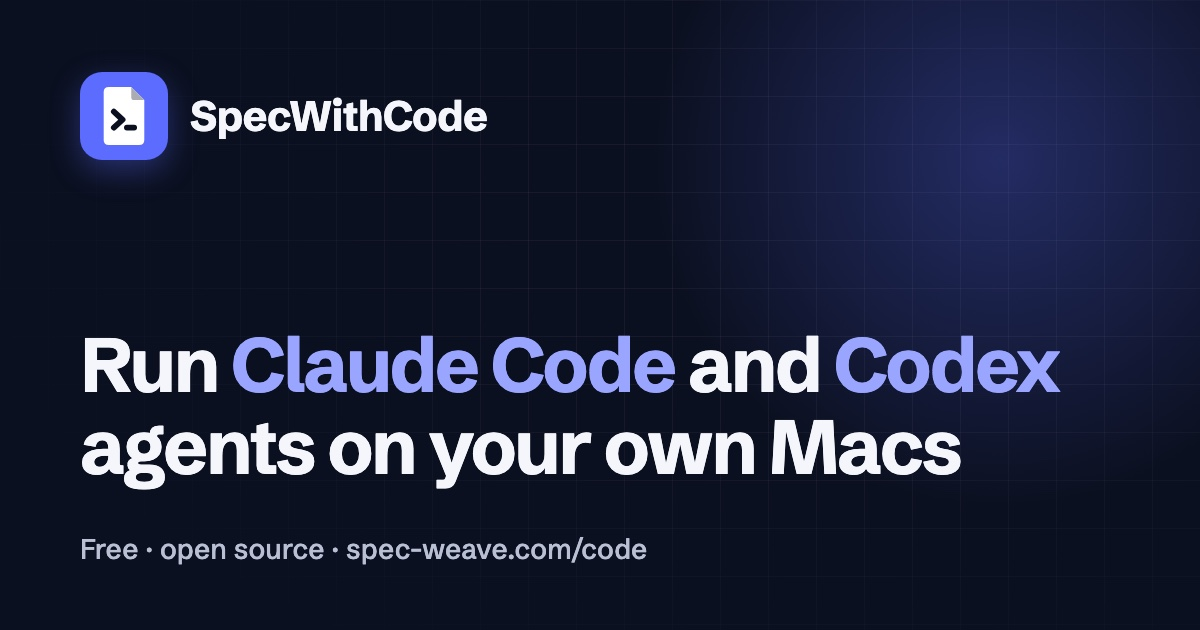
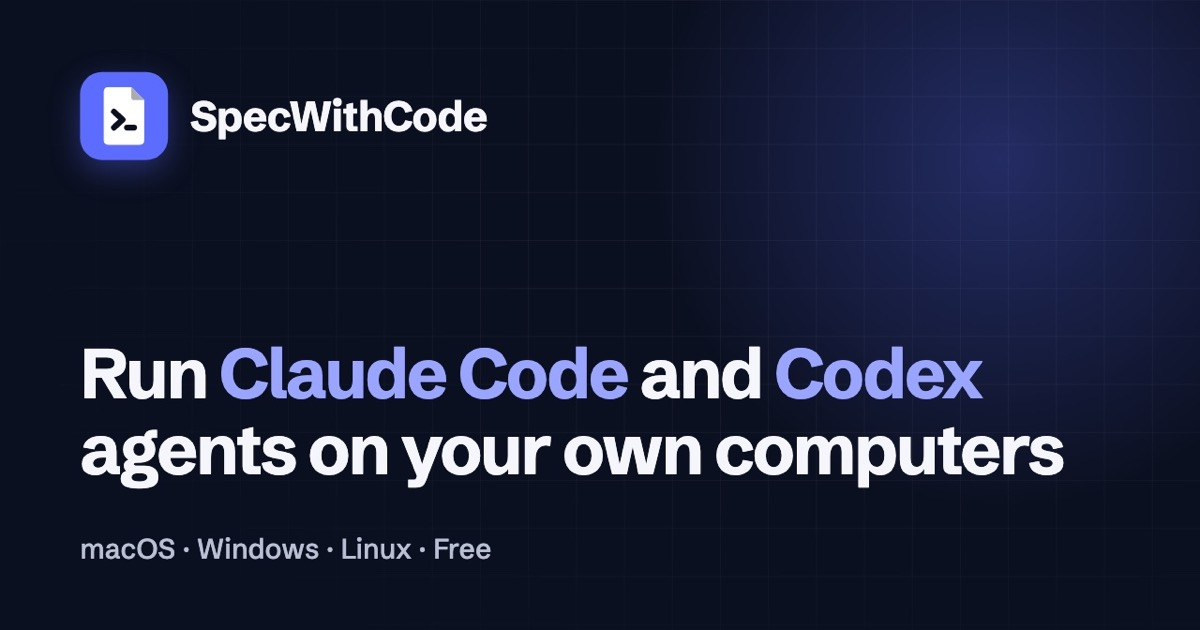
1099: correct cross-platform product positioning

diff --git a/docs-site/src/pages/code.tsx b/docs-site/src/pages/code.tsx
@@ -36,7 +36,7 @@ const LIMITS: {name: string; detail: React.ReactNode}[] = [
   {name: 'Credits before the fallback, if you want them', detail: <>Redeem a banked reset, spend Codex credits or use Claude API credits first. Each is off until you turn it on, and SpecWithCode never buys credits for you.</>},
   {name: 'The thread keeps its place', detail: <>Continuing hands the thread over with its context, in the same worktree. Tick Auto-continue when the limit resets, continue on another machine of the project, or undo a failover you did not want.</>},
   {name: 'Limits per account and machine', detail: <>Usage &gt; Limits names each account and the machine it is signed in on, with the share left in every session and weekly window.</>},
-  {name: 'A status page with history', detail: <>The health of the app, your machines and each provider, with each day’s worst status kept on your Mac for 90 days.</>},
+  {name: 'A status page with history', detail: <>The health of the app, your machines and each provider, with each day’s worst status kept on your computer for 90 days.</>},
 ];
 
 const MACHINE_STEPS: {title: string; body: React.ReactNode}[] = [
@@ -94,9 +94,9 @@ const FAQ_TEXT: {q: string; a: string}[] = [
 
 const SITE = 'https://spec-weave.com';
 const PAGE_URL = `${SITE}/code/`;
-const TITLE = 'SpecWithCode (Spec with Code): Claude Code & Codex workspace';
-const DESCRIPTION = 'SpecWithCode (Spec with Code) is a free AI coding agent workspace. Run Claude Code, Codex and Cursor on your own machines with your existing accounts.';
-const OG_IMAGE = `${SITE}/img/studio/og-specwithcode.jpg`;
+const TITLE = 'SpecWithCode (Spec with Code): agents on your own computers';
+const DESCRIPTION = 'SpecWithCode (Spec with Code): run Claude Code, Codex and Cursor on your own computers. Free workspace for macOS, Windows and Linux.';
+const OG_IMAGE = `${SITE}/img/studio/og-specwithcode.jpg?v=all-platforms-20261027`;
 /** The SpecWithCode explainer on the AI Power YouTube channel. */
 const EXPLAINER_URL = 'https://www.youtube.com/watch?v=eCLJSZ8wo9w';
 const tour = getTutorial('specwithcode-tour');
@@ -215,7 +215,7 @@ export default function Code() {
       <meta property="og:image" content={OG_IMAGE} />
       <meta property="og:image:width" content="1200" />
       <meta property="og:image:height" content="630" />
-      <meta property="og:image:alt" content="SpecWithCode: run Claude Code and Codex agents on your own Macs. Free, source available." />
+      <meta property="og:image:alt" content="SpecWithCode: run Claude Code and Codex agents on your own computers. macOS, Windows and Linux. Free, source available." />
       <meta name="twitter:image" content={OG_IMAGE} />
       <script type="application/ld+json">{JSON.stringify(SPECWITHCODE_LD)}</script>
     </Head>
@@ -227,14 +227,14 @@ export default function Code() {
             <span className={styles.productName}>SpecWithCode</span>
             <span className={styles.productNote}>Free, source available</span>
           </p>
-          <h1>SpecWithCode: run Claude Code, Codex and Cursor agents on your own machines</h1>
-          <p className={styles.lead}>SpecWithCode (pronounced “Spec with Code”) is a free AI coding agent workspace on your own machines.</p>
+          <h1>SpecWithCode: run Claude Code, Codex and Cursor agents on your own computers</h1>
+          <p className={styles.lead}>SpecWithCode (pronounced “Spec with Code”) is a free AI coding agent workspace on your own computers.</p>
           <p className={styles.lead}>One coordinator per project starts worker threads in {providerSummary(6)}, each on its own branch or worktree.</p>
           <div className={styles.actions}>
-            <a className="wv-btn wv-btn--primary wv-btn--lg" href={release.dmgUrl} data-track="download_click" data-placement="hero"><Download {...btnIcon} />Download for Mac</a>
+            <Link className="wv-btn wv-btn--primary wv-btn--lg" to="/code/download/" data-track="download_click" data-placement="hero"><Download {...btnIcon} />Download for macOS, Windows or Linux</Link>
             <a className="wv-btn wv-btn--secondary wv-btn--lg" href="#workflow">See how it works</a>
           </div>
-          <p className={styles.requirements}>Version {release.version}, {release.size}. Apple silicon, macOS 13 or later, early access. Signed with Developer ID and notarized by Apple. Linux machines can join as workers. <Link className="wv-link" to="/docs/reference/changelog#specwithcode-releases">What is new in {release.version}</Link> · <Link className="wv-link" to="/code/download/">Download SpecWithCode for Mac, Windows or Linux</Link></p>
+          <p className={styles.requirements}>Early access for macOS 13 or later on Apple silicon, Windows 10 and 11 (x64), and Linux (x64). Mac releases are signed and notarized; Windows and Linux installers are unsigned. <Link className="wv-link" to="/code/download/">Downloads, versions and installation steps</Link></p>
           <div className={clsx('wv-note', styles.qualification)}>
             <Info {...icon} />
             <p><strong>Cloud models still receive prompts and relevant context through your chosen provider.</strong> Local execution does not mean offline AI.</p>
@@ -278,7 +278,7 @@ export default function Code() {
       <section className={clsx(styles.shell, styles.section)} id="machines" aria-labelledby="machines-title">
         <div className={styles.sectionHead}>
           <h2 id="machines-title">Add the machines you trust</h2>
-          <p>Start on one Mac. When you want more capacity, add another Mac or a Linux machine to your private Tailscale network and let coordinators start workers there. Each machine reaches the others by its own Tailscale name, whatever network it is on.</p>
+          <p>Start on one computer. When you want more capacity, add a supported Mac or Linux worker to your private Tailscale network and let coordinators start workers there. Each machine reaches the others by its own Tailscale name, whatever network it is on.</p>
         </div>
 
         <ol className={clsx('wv-thread', 'wv-thread--across', styles.route)} aria-label="Add a machine in four steps">
@@ -325,8 +325,8 @@ export default function Code() {
 
       <section className={clsx(styles.shell, styles.section, styles.split)} aria-labelledby="reach-title">
         <div className={styles.sectionHead}>
-          <h2 id="reach-title">Let agents use your Mac and your browser</h2>
-          <p>Some work happens outside a terminal. Give agents the desktop and the browser when a task needs them, on the machines where you allow it.</p>
+          <h2 id="reach-title">Let agents use your browser and, on macOS, your desktop</h2>
+          <p>Some work happens outside a terminal. Give agents browser access when a task needs it. Native desktop control is macOS only and requires permission on that Mac.</p>
         </div>
         <Evidence items={REACH} />
       </section>

diff --git a/docs-site/src/pages/code/download.tsx b/docs-site/src/pages/code/download.tsx
@@ -21,7 +21,7 @@ const SITE = 'https://spec-weave.com';
 const PAGE_URL = `${SITE}/code/download/`;
 const TITLE = 'Download SpecWithCode for Mac, Windows and Linux (free)';
 const DESCRIPTION = 'Download SpecWithCode (Spec with Code), the free AI coding agent workspace, for Apple silicon Macs, Windows 10 and 11, and Linux.';
-const OG_IMAGE = `${SITE}/img/studio/og-specwithcode.jpg`;
+const OG_IMAGE = `${SITE}/img/studio/og-specwithcode.jpg?v=all-platforms-20261027`;
 const SHA_URL = `${release.repoUrl}/releases/download/v${release.version}/SHA256SUMS`;
 const CHROME_URL = 'https://chromewebstore.google.com/detail/specwithcode-browser/okoinngelinfjfkmkcnbgndapeiofgbb';
 
@@ -118,7 +118,7 @@ export default function CodeDownload() {
       <meta property="og:image" content={OG_IMAGE} />
       <meta property="og:image:width" content="1200" />
       <meta property="og:image:height" content="630" />
-      <meta property="og:image:alt" content="SpecWithCode: run Claude Code and Codex agents on your own Macs. Free, source available." />
+      <meta property="og:image:alt" content="SpecWithCode: run Claude Code and Codex agents on your own computers. macOS, Windows and Linux. Free, source available." />
       <meta name="twitter:image" content={OG_IMAGE} />
       <script type="application/ld+json">{JSON.stringify(DOWNLOAD_LD)}</script>
     </Head>
@@ -207,10 +207,11 @@ export default function CodeDownload() {
       </section>
 
       <section className={clsx(styles.shell, styles.final)} aria-labelledby="download-final-title">
-        <h2 id="download-final-title">Get SpecWithCode for Mac</h2>
-        <p>Free, source available, no account. Version {release.version} for Apple silicon Macs on macOS 13 or later.</p>
+        <h2 id="download-final-title">Get SpecWithCode for your computer</h2>
+        <p>Free, source available, no account. Choose macOS on Apple silicon, Windows 10 and 11 (x64), or Linux (x64).</p>
         <div className={styles.actions}>
-          <a className="wv-btn wv-btn--primary wv-btn--lg" href={release.dmgUrl} data-track="download_click" data-placement="download-page-footer"><Download {...btnIcon} />Download SpecWithCode</a>
+          <a className="wv-btn wv-btn--primary wv-btn--lg" href={release.dmgUrl} data-track="download_click" data-placement="download-page-footer"><Download {...btnIcon} />Download for Mac</a>
+          <a className="wv-btn wv-btn--secondary" href="#windows-linux-title">Windows and Linux downloads</a>
           <a className={clsx('wv-link', styles.finalLink)} href={release.repoUrl}>View source on GitHub</a>
         </div>
       </section>

diff --git a/docs-site/src/components/ecosystem/StudioSections.tsx b/docs-site/src/components/ecosystem/StudioSections.tsx
@@ -110,11 +110,11 @@ export function StudioFaq() {
     </article>
     <article>
       <h3>Is it a cloud service?</h3>
-      <p>No. SpecWithCode is a local app on each machine: a desktop app for Apple silicon Macs on macOS 13 or later, also usable from a browser. A Linux machine (x64 or arm64) can join as a worker; Windows and Intel Macs are not built yet. Telemetry and the hosted relay are off by default. By default the desktop app checks GitHub every hour and installs updates for itself and the service; you can turn that off in Settings. Model calls still go to the providers you choose.</p>
+      <p>No. SpecWithCode is a local app on each machine: a desktop app for Apple silicon Macs on macOS 13 or later, also usable from a browser. A Linux machine (x64 or arm64) can join as a worker; Windows 10 and 11 (x64) and Linux (x64) desktop installers are also available. Intel Mac desktop builds are not published. Telemetry and the hosted relay are off by default. By default the desktop app checks GitHub every hour and installs updates for itself and the service; you can turn that off in Settings. Model calls still go to the providers you choose.</p>
     </article>
     <article>
       <h3>Can I use it today?</h3>
-      <p>Yes. SpecWithCode is built for teams of 2–10 people and is free, with no markup on your subscriptions, no token resale and no seat fee to run agents on your own machines. What is free today stays free; teams pay only for hosting and support (<a href="/pricing">pricing</a>). It is in early access: <a href={release.dmgUrl}>Download version {release.version} for Apple silicon Macs</a> ({release.size}), or see <a href={release.releasesUrl}>all releases on GitHub</a>. The SpecWeave CLI it builds on is open source and available with <code>npm install -g specweave</code>.</p>
+      <p>Yes. SpecWithCode is built for teams of 2–10 people and is free, with no markup on your subscriptions, no token resale and no seat fee to run agents on your own machines. What is free today stays free; teams pay only for hosting and support (<a href="/pricing">pricing</a>). It is in early access: <a href="/code/download/">Download for macOS, Windows or Linux</a>, or see <a href={release.releasesUrl}>all releases on GitHub</a>. The SpecWeave CLI it builds on is open source and available with <code>npm install -g specweave</code>.</p>
     </article>
   </div>;
 }

diff --git a/docs-site/marketing/og-specwithcode.html b/docs-site/marketing/og-specwithcode.html
@@ -12,7 +12,7 @@
   .mark{width:88px;height:88px;border-radius:22px;background:#5B6CFF;display:flex;align-items:center;justify-content:center;box-shadow:0 10px 30px rgba(91,108,255,.35)}
   .mark svg{width:58px;height:58px}
   .name{font-size:42px;font-weight:700;letter-spacing:-.02em}
-  h1{position:relative;margin:auto 0 0;font-size:76px;line-height:82px;font-weight:700;letter-spacing:-.035em;max-width:1000px}
+  h1{position:relative;margin:auto 0 0;font-size:70px;line-height:76px;font-weight:700;letter-spacing:-.035em;max-width:1000px}
   h1 span{color:#9AA5FF}
   .foot{position:relative;margin-top:44px;display:flex;align-items:center;justify-content:space-between;font-size:28px;font-weight:500;color:#B9C0D4}
   .agents{font-family:'JetBrains Mono',ui-monospace,monospace;font-size:22px;color:#8790AB}
@@ -23,6 +23,6 @@
     <div class="mark"><svg viewBox="10 10 80 80" xmlns="http://www.w3.org/2000/svg"><path fill="#FFFFFF" d="M29 10H60L78 28V83Q78 90 71 90H29Q22 90 22 83V17Q22 10 29 10Z"/><path fill="#AAACB2" d="M60 10V24Q60 28 64 28H78Z"/><path fill="#0B1020" d="M38.703 41.051L50.703 52.051A4 4 0 0 1 50.703 57.949L38.703 68.949A4 4 0 0 1 33.297 63.051L42.080 55L33.297 46.949A4 4 0 0 1 38.703 41.051ZM54 62H64A4 4 0 0 1 64 70H54A4 4 0 0 1 54 62Z"/></svg></div>
     <div class="name">SpecWithCode</div>
   </div>
-  <h1>Run <span>Claude Code</span> and <span>Codex</span> agents on your own Macs</h1>
-  <div class="foot"><div>Free · open source · spec-weave.com/code</div></div>
+  <h1>Run <span>Claude Code</span> and <span>Codex</span> agents on your own computers</h1>
+  <div class="foot"><div>macOS · Windows · Linux · Free</div></div>
 </div></body></html>

diff --git a/docs-site/src/components/ecosystem/WhySpecWithCode.tsx b/docs-site/src/components/ecosystem/WhySpecWithCode.tsx
@@ -16,7 +16,7 @@ const ROWS: {label: string; cells: Cell[]}[] = [
     <>The vendor’s agent in the vendor’s environment <Src href="https://code.claude.com/docs/en/claude-code-on-the-web" /></>,
   ]},
   {label: 'Where your code runs', cells: [
-    'Your Macs and Linux machines',
+    'Your own computers',
     <>Your machine <Src href="https://opencode.ai/docs/server/" /></>,
     <>A vendor-hosted container or VM that clones your repo <Src href="https://learn.chatgpt.com/docs/environments/cloud-environment" /></>,
   ]},

diff --git a/docs-site/docs/guides/specwithcode-vs-opencode-t3-code.md b/docs-site/docs/guides/specwithcode-vs-opencode-t3-code.md
@@ -7,7 +7,7 @@ keywords: [opencode alternative, t3 code alternative, codex cloud alternative, c
 
 # SpecWithCode vs OpenCode, T3 Code and cloud agents
 
-SpecWithCode is a free Mac app with source available for inspection that runs Claude Code, Codex, Cursor and other coding agents on your own machines, signed in with the plans you already pay for. A coordinator splits work across worker threads, and the app tracks each subscription's limits where the provider reports them.
+SpecWithCode is a free desktop app for macOS, Windows and Linux with source available for inspection that runs Claude Code, Codex, Cursor and other coding agents on your own machines, signed in with the plans you already pay for. A coordinator splits work across worker threads, and the app tracks each subscription's limits where the provider reports them.
 
 The facts about other products below come from their own sites, docs and GitHub repositories, checked on 16 October 2026. They change quickly, so follow the links for the current state. SpecWithCode is our product, so read this page with that in mind.
 
@@ -16,10 +16,10 @@ The facts about other products below come from their own sites, docs and GitHub 
 | | SpecWithCode | OpenCode | T3 Code | Cloud agents |
 |---|---|---|---|---|
 | **What runs the agent** | Each vendor's own agent: the Claude Code, Codex, Grok, OpenCode, Muse Code, Antigravity and Pi CLIs, Cursor through its official SDK ([Cursor SDK](https://cursor.com/docs/api/sdk/typescript)), plus GitHub Copilot CLI and Gemini CLI through the ACP registry | Its own agent loop with build and plan agents, across 75+ model providers ([providers](https://opencode.ai/docs/providers/), [README](https://github.com/anomalyco/opencode)) | Vendor CLIs: Claude Code, Codex, Cursor, Grok Build, OpenCode, Google Antigravity ([README](https://github.com/pingdotgg/t3code)) | The vendor's agent in the vendor's environment |
-| **Where your code runs** | Your Macs | Your machine | Your machine | A vendor-hosted container or VM that clones your repo (sources below) |
+| **Where your code runs** | Your own computers | Your machine | Your machine | A vendor-hosted container or VM that clones your repo (sources below) |
 | **Claude Pro or Max plan** | Through Claude Code's own sign-in on each machine | Its docs say Anthropic prohibits this and the plugin has not been bundled since v1.3.0 ([providers](https://opencode.ai/docs/providers/)) | Through Claude Code: "Works with your subscriptions" ([README](https://github.com/pingdotgg/t3code)) | Billed through each vendor's own plan |
-| **Other machines** | Pair Macs over your network, SSH or Tailscale; move a project or continue a thread on another machine | `opencode serve` and `opencode web` listen on 127.0.0.1 by default and can bind a network address ([server](https://opencode.ai/docs/server/), [web](https://opencode.ai/docs/web/)) | Network, Tailscale, SSH or the T3 Connect relay ([remote access](https://github.com/pingdotgg/t3code/blob/main/docs/user/remote-access.md)) | Runs in the vendor's cloud |
-| **Apps** | macOS on Apple silicon (Electron), signed and notarized | Terminal, desktop for macOS, Windows and Linux, IDE extension ([download](https://opencode.ai/download)) | Desktop (Electron) for macOS, Windows and Linux, web, iOS, Android and a CLI ([README](https://github.com/pingdotgg/t3code)) | Web, IDE and GitHub |
+| **Other machines** | Pair supported machines over your network, SSH or Tailscale; move a project or continue a thread on another machine | `opencode serve` and `opencode web` listen on 127.0.0.1 by default and can bind a network address ([server](https://opencode.ai/docs/server/), [web](https://opencode.ai/docs/web/)) | Network, Tailscale, SSH or the T3 Connect relay ([remote access](https://github.com/pingdotgg/t3code/blob/main/docs/user/remote-access.md)) | Runs in the vendor's cloud |
+| **Apps** | macOS on Apple silicon, Windows 10/11 (x64), Linux (x64); Mac signed/notarized, Windows/Linux unsigned | Terminal, desktop for macOS, Windows and Linux, IDE extension ([download](https://opencode.ai/download)) | Desktop (Electron) for macOS, Windows and Linux, web, iOS, Android and a CLI ([README](https://github.com/pingdotgg/t3code)) | Web, IDE and GitHub |
 | **Price and license** | Free; source available, no new project-wide license grant | Open source (MIT) ([license](https://github.com/anomalyco/opencode/blob/dev/LICENSE)) | Open source (MIT) ([license](https://github.com/pingdotgg/t3code/blob/main/LICENSE)) | Included in or billed by each vendor's plan |
 
 Cloud agents here means:
@@ -66,6 +66,6 @@ when work should keep running with your laptop closed and your repository alread
 
 ## Pick SpecWithCode
 
-when your team of 2–10 people wants one coordinator to split work across several agents on your own Macs, watch every subscription's limits in one place, let agents use your Chrome through the SpecWithCode Browser extension, and keep your code off anyone else's servers.
+when your team of 2–10 people wants one coordinator to split work across several agents on your own computers, watch every subscription's limits in one place, let agents use your Chrome through the SpecWithCode Browser extension, and keep your code off anyone else's servers.
 
 [Download SpecWithCode](/code/) or compare it with [BridgeMind](/docs/compare/specwithcode-vs-bridgemind).

diff --git a/docs-site/docs/studio/status-page.md b/docs-site/docs/studio/status-page.md
@@ -1,7 +1,7 @@
 ---
-title: "The SpecWithCode Status page: providers, GitHub, Tailscale and your Mac in one place"
+title: "The SpecWithCode Status page: providers, GitHub, Tailscale and your computers in one place"
 sidebar_label: Status page
-description: "Status in SpecWithCode combines the public status pages of Claude, OpenAI, GitHub, Google, xAI and Tailscale with what your own Mac saw, keeps 90 days of history on the Mac, and names what each service affects."
+description: "Status in SpecWithCode combines the public status pages of Claude, OpenAI, GitHub, Google, xAI and Tailscale with what your own computer saw, keeps 90 days of history on your computer, and names what each service affects."
 ---
 
 # Status page
@@ -12,15 +12,15 @@ When a thread fails, the first question is whose fault it is: the provider, GitH
 
 | Service | Built from | What depends on it |
 |---|---|---|
-| Local service | This Mac: the local database and the MCP endpoint agents use | Every thread and window, scheduled tasks, MCP tools for agents |
-| MCP and coordinators | This Mac: each project coordinator's last turn | Project coordinators, delegated tasks, scheduled runs |
-| Claude | status.claude.com and what this Mac saw | Claude threads, coordinators and usage limits |
-| Codex | status.openai.com and what this Mac saw | Codex threads, ChatGPT sign-in, Codex usage limits |
+| Local service | This machine: the local database and the MCP endpoint agents use | Every thread and window, scheduled tasks, MCP tools for agents |
+| MCP and coordinators | This machine: each project coordinator's last turn | Project coordinators, delegated tasks, scheduled runs |
+| Claude | status.claude.com and what this machine saw | Claude threads, coordinators and usage limits |
+| Codex | status.openai.com and what this machine saw | Codex threads, ChatGPT sign-in, Codex usage limits |
 | GitHub Copilot | githubstatus.com | Copilot threads and model access |
 | Gemini | status.cloud.google.com | Gemini and Antigravity threads |
 | Grok | status.x.ai | Grok threads |
 | GitHub | githubstatus.com: Git operations, API requests, pull requests, Actions | Code Review and pull requests, clone and publish, app updates |
-| Tailscale | This Mac and status.tailscale.com | Remote machines, phone and browser access over Tailscale |
+| Tailscale | This machine and status.tailscale.com | Remote machines, phone and browser access over Tailscale |
 | Updates | The SpecWithCode release feed and the GitHub API | App updates, service updates on paired machines |
 
 A provider's level combines its public status page with what this app saw in the last hour: sign-in, usage limits and failed turns. So trouble that only your account hits still shows up, even when the provider's page says everything is fine.
@@ -29,10 +29,10 @@ A provider's level combines its public status page with what this app saw in the
 
 Each service shows one of **Operational**, **Needs attention**, **Partial outage**, **Major outage**, **Maintenance** or **Unknown**, always as a word. Under it, 90 bars show the last 90 days, one bar per day in the worst status seen that day; a single failed check among many shows as Needs attention. Hover a bar, or move through the bars with the arrow keys, to read that day.
 
-Incidents list what is open now and in the last seven days, each marked **Provider status page** or **Seen by this Mac**, with what it affects.
+Incidents list what is open now and in the last seven days, each marked **Provider status page** or **Seen by this machine**, with what it affects.
 
 ## How fresh it is
 
-The app checks shortly after it starts and then every five minutes. **Check status now** runs a check at once. History is kept on the Mac for 90 days and never leaves it.
+The app checks shortly after it starts and then every five minutes. **Check status now** runs a check at once. History is kept on your computer for 90 days and never leaves it.
 
 Usage limits for each account are on a separate page: **Usage > Limits**. See [Memory and usage](/docs/studio/memory-and-usage).

diff --git a/docs-site/docs/studio/linux-worker.md b/docs-site/docs/studio/linux-worker.md
@@ -6,7 +6,7 @@ description: "Add a Linux machine on x64 or arm64, such as a Hetzner, DigitalOce
 
 # Linux worker
 
-A Linux machine you control can run workers for the coordinators on your Mac: a small VPS, a cloud VM or a box at home. It runs the same SpecWithCode server as a Mac worker; only the install differs. You rent the machine and sign its provider CLIs in with your own accounts. SpecWithCode does not start sessions on anyone else's cloud.
+A Linux machine you control can run workers for the coordinators on your main computer: a small VPS, a cloud VM or a box at home. It runs the same SpecWithCode server as a Mac worker; only the install differs. You rent the machine and sign its provider CLIs in with your own accounts. SpecWithCode does not start sessions on anyone else's cloud.
 
 Every release ships `studio-<version>-linux-x64-….tar.gz` and `studio-<version>-linux-arm64-….tar.gz` with a `SHA256SUMS` file ([latest release assets](https://github.com/anton-abyzov/specwithcode/releases/latest)).
 
@@ -14,7 +14,7 @@ Every release ships `studio-<version>-linux-x64-….tar.gz` and `studio-<version
 
 - Linux on x64 or arm64 with glibc and a systemd user session: Debian 12, Ubuntu 22.04 or later, or Fedora 40 or later. AWS Graviton, Hetzner CAX and Azure Dpsv5 machines are arm64.
 - Node.js 22.20 or a later 22.x release.
-- Tailscale, signed in to the same tailnet as your Mac, with MagicDNS. The fleet accepts only private `*.ts.net` HTTPS addresses.
+- Tailscale, signed in to the same tailnet as your main computer, with MagicDNS. The fleet accepts only private `*.ts.net` HTTPS addresses.
 - The provider CLIs you want to run there (`claude`, `codex` and others), signed in on that machine. On a rented server, prefer an API key over a subscription sign-in.
 
 Tailscale connects outward, so the machine needs no open inbound port. Leave the provider's firewall closed to everything but SSH, or close SSH too and use Tailscale SSH. Windows hosts cannot run workers.
@@ -28,7 +28,7 @@ sudo tailscale up --operator="$(id -un)"
 
 On a machine where Tailscale is already up, run `sudo tailscale set --operator="$(id -un)"` instead. Making your user the operator lets SpecWithCode set up Tailscale Serve without root.
 
-Sign in with the Tailscale account your Mac uses, then turn off key expiry for this machine in the Tailscale admin console. HTTPS certificates must be on for the tailnet: in the admin console, open **DNS** and turn on **HTTPS Certificates**.
+Sign in with the Tailscale account your main computer uses, then turn off key expiry for this machine in the Tailscale admin console. HTTPS certificates must be on for the tailnet: in the admin console, open **DNS** and turn on **HTTPS Certificates**.
 
 ## Install the server
 
@@ -78,7 +78,7 @@ The service runs the pinned copy under `~/.specwithcode/runtime/versions/<versio
 - Update it from the Mac.
 - Unpack the new release as above and run its `node bin.mjs service install` again, which pins the new version and rewrites the unit.
 
-## Pair it with your Mac
+## Pair it with your main computer
 
 ```bash
 specwithcode fleet invite --label "Hetzner VPS"

diff --git a/docs-site/docs/studio/projects.md b/docs-site/docs/studio/projects.md
@@ -10,7 +10,7 @@ import TutorialEmbed from '@site/src/components/TutorialVideo/TutorialEmbed';
 A project groups work around an outcome, shared memory and tools. Code projects can combine a working folder with several repository URLs; Personal projects start without choosing a folder or creating a Git repository. Its coordinator keeps the conversation together; worker threads carry out individual assignments. Choose a provider and model for each thread, including the coordinator. A project can contain both Claude Code and Codex workers.
 
 :::info Early access
-Projects have been in every SpecWithCode build since 0.2.0. SpecWithCode is built for teams of 2–10 people, free ([what stays free](/pricing)) and in early access; [download it for Apple silicon Macs](/code/) or from [GitHub releases](https://github.com/anton-abyzov/specwithcode/releases). Publishing a release does not install it on your devices: check the running version on each host. The SpecWeave CLI installation guide installs the CLI only; see [SpecWithCode architecture and access](../overview/studio-architecture.mdx) for connecting several machines.
+Projects have been in every SpecWithCode build since 0.2.0. SpecWithCode is built for teams of 2–10 people, free ([what stays free](/pricing)) and in early access; [download it for macOS, Windows or Linux](/code/) or from [GitHub releases](https://github.com/anton-abyzov/specwithcode/releases). Publishing a release does not install it on your devices: check the running version on each host. The SpecWeave CLI installation guide installs the CLI only; see [SpecWithCode architecture and access](../overview/studio-architecture.mdx) for connecting several machines.
 :::
 
 ## Set up your project

diff --git a/docs-site/docs/studio/plans-and-routines.md b/docs-site/docs/studio/plans-and-routines.md
@@ -10,7 +10,7 @@ import TutorialEmbed from '@site/src/components/TutorialVideo/TutorialEmbed';
 Start with a conversation. Add a plan when work needs acceptance criteria, owners or verification. Ordinary SpecWithCode chat does not require a SpecWeave increment or CLI installation.
 
 :::info Early access
-These features have been in every SpecWithCode build since 0.2.0. SpecWithCode is built for teams of 2–10 people, free ([what stays free](/pricing)) and in early access ([download for Apple silicon Macs](/code/)); each machine that runs work needs the current version installed. See [SpecWithCode projects](./projects.md) for availability.
+These features have been in every SpecWithCode build since 0.2.0. SpecWithCode is built for teams of 2–10 people, free ([what stays free](/pricing)) and in early access ([download for macOS, Windows or Linux](/code/)); each machine that runs work needs the current version installed. See [SpecWithCode projects](./projects.md) for availability.
 :::
 
 ## One plan authority

diff --git a/docs-site/docs/studio/memory-and-usage.md b/docs-site/docs/studio/memory-and-usage.md
@@ -10,7 +10,7 @@ import TutorialEmbed from '@site/src/components/TutorialVideo/TutorialEmbed';
 Share durable facts across your project. Keep each worker's conversation and provider cache with the provider that owns it.
 
 :::info Early access
-These features have been in every SpecWithCode build since 0.2.0. SpecWithCode is built for teams of 2–10 people, free ([what stays free](/pricing)) and in early access ([download for Apple silicon Macs](/code/)); each machine that runs work needs the current version installed. See [SpecWithCode projects](./projects.md) for availability.
+These features have been in every SpecWithCode build since 0.2.0. SpecWithCode is built for teams of 2–10 people, free ([what stays free](/pricing)) and in early access ([download for macOS, Windows or Linux](/code/)); each machine that runs work needs the current version installed. See [SpecWithCode projects](./projects.md) for availability.
 :::
 
 | Kind of context | What belongs there |

diff --git a/docs-site/docs/guides/specwithcode-vs-bridgemind.md b/docs-site/docs/guides/specwithcode-vs-bridgemind.md
@@ -21,7 +21,7 @@ This page describes BridgeMind as [its own site](https://www.bridgemind.ai) and 
 | **Record of the work** | Sessions in the app; diffs land on your disk | Specs, task evidence and handoffs in git through the open-source [SpecWeave CLI](/docs/getting-started), so any tool can carry on |
 | **Done means** | Not described on its site | A worker can report done; only a person marks it verified |
 | **Extras** | BridgeVoice dictation and the BridgeVerse 3D workspace on Pro and Ultra | Usage limits per subscription, with a thread able to continue on another signed-in provider |
-| **Platforms** | macOS 14+, Windows 10/11, Linux | Apple silicon Macs on macOS 13+; Windows and Intel Macs are not built yet |
+| **Platforms** | macOS 14+, Windows 10/11, Linux | macOS 13+ on Apple silicon, Windows 10/11 (x64), Linux (x64); native computer use is macOS only |
 
 ## Pick BridgeMind
 
